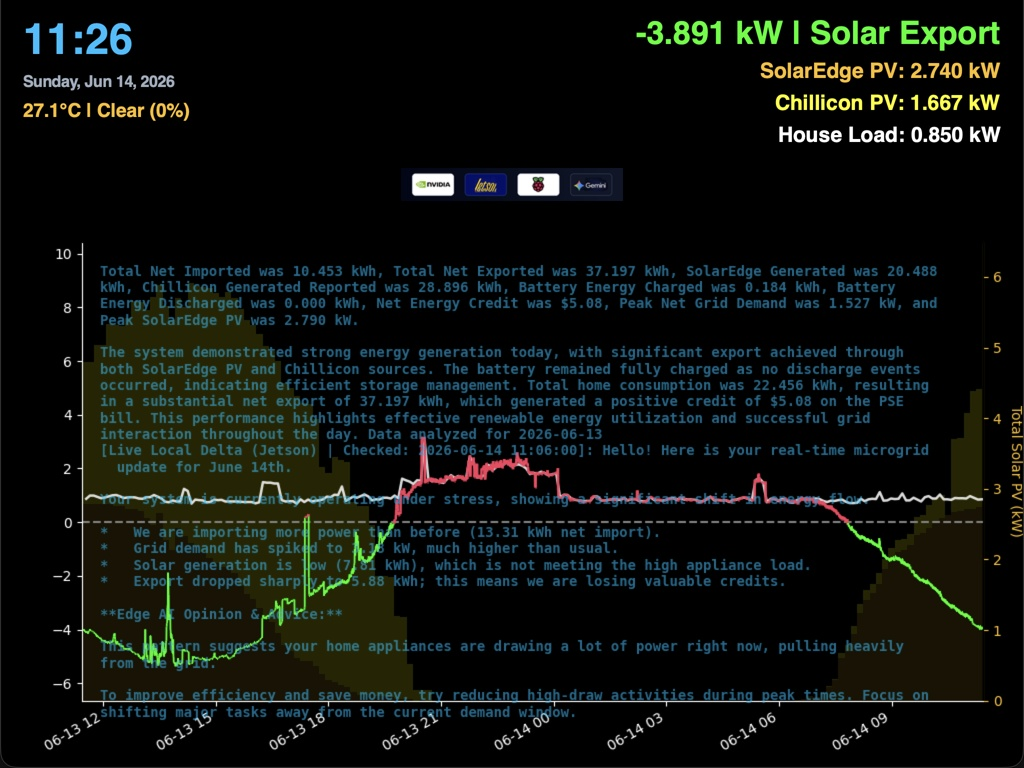
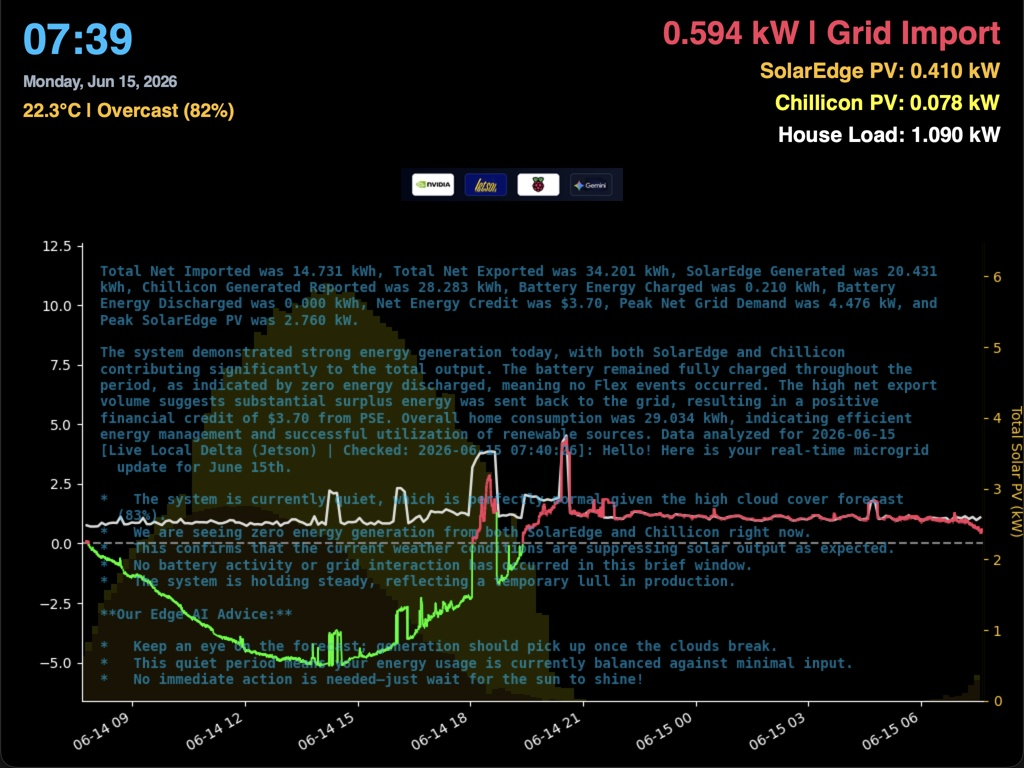
Patch stager baseline expiration check and update preview screenshots to June 15

diff --git a/dashboard.py b/dashboard.py
@@ -1359,6 +1359,7 @@ class GridDashboard(tk.Tk):
 
                 # 3. Request analysis context from Jetson edge server via secure gRPC
                 try:
+                    checked_time = datetime.datetime.now().strftime("%Y-%m-%d %H:%M:%S")
                     # Convert the cache baseline timestamp string into a datetime object.
                     # Standardizing to datetime prevents string representation mismatches and
                     # provides timezone-agnostic parameters to the Protobuf serializer.
@@ -1386,7 +1387,6 @@ class GridDashboard(tk.Tk):
                     dft_explanation = ""
                     metrics = {}
                     spec_data = {}
-                    checked_time = datetime.datetime.now().strftime("%Y-%m-%d %H:%M:%S")
                     
                     for chunk in stream:
                         # Process the initial statistical evaluation block. This contains computed
@@ -1462,7 +1462,7 @@ class GridDashboard(tk.Tk):
                     
                     # Save results to the persistent local JSON cache file to allow offline load recovery
                     # on subsequent application launches.
-                    if llm_response:
+                    if llm_response and len(llm_response) >= 80:
                         try:
                             cache_data = io.read_safe_json(self.summary_cache_file)
                             if not cache_data:
@@ -1484,9 +1484,14 @@ class GridDashboard(tk.Tk):
                         self.ui_queue.put(self.update_summary_display)
                         logging.info("Local Delta Loop: Successfully completed update cycle.")
                     else:
-                        logging.warning("Local Delta Loop: Received empty response from Jetson server.")
+                        msg = "empty response" if not llm_response else f"response too short ({len(llm_response)} chars)"
+                        logging.warning(f"Local Delta Loop: Received {msg} from Jetson server.")
+                        self.local_delta_text = f"[Live Local Delta (Jetson) | Checked: {checked_time}]: Stager error (Ollama Offline/OOM)"
+                        self.ui_queue.put(self.update_summary_display)
                 except Exception as grpc_err:
                     logging.error(f"Local Delta Loop: gRPC analysis query failed: {grpc_err}")
+                    self.local_delta_text = f"[Live Local Delta (Jetson) | Checked: {checked_time}]: Connection failed (Stager Offline)"
+                    self.ui_queue.put(self.update_summary_display)
             except Exception as loop_err:
                 logging.error(f"Local Delta Loop: Unexpected error: {loop_err}")
                 

diff --git a/stage_local_summary.py b/stage_local_summary.py
@@ -1263,9 +1263,36 @@ def calculate_analysis_metrics_and_prompts(
         ValueError: If baseline_ts_str cannot be parsed as a valid datetime.
     """
     baseline_dt = parse_timestamp(baseline_ts_str)
+    
+    # Check if baseline is expired (>24 hours) or empty/placeholder
+    is_expired = False
     if not baseline_dt:
-        raise ValueError(f"Could not parse baseline timestamp: {baseline_ts_str}")
-        
+        is_expired = True
+    else:
+        age = (datetime.datetime.now() - baseline_dt).total_seconds()
+        if age > 86400:  # 24 hours in seconds
+            is_expired = True
+
+    is_placeholder = (
+        not baseline_text
+        or baseline_text.strip() == ""
+        or "Awaiting AI Analysis..." in baseline_text
+    )
+
+    if is_expired or is_placeholder:
+        logging.info("Baseline is expired or placeholder. Generating fresh baseline locally...")
+        new_baseline_dt = datetime.datetime.now()
+        try:
+            baseline_text = generate_local_baseline(new_baseline_dt)
+            baseline_dt = new_baseline_dt
+            baseline_ts_str = new_baseline_dt.strftime("%Y-%m-%d %H:%M:%S")
+            logging.info(f"Fresh baseline generated successfully. Timestamp: {baseline_ts_str}")
+        except Exception as e:
+            logging.error(f"Failed to generate local baseline: {e}")
+            if not baseline_dt:
+                baseline_dt = datetime.datetime.now()
+                baseline_ts_str = baseline_dt.strftime("%Y-%m-%d %H:%M:%S")
+
     # 1. Fetch weather forecast (with sunrise/sunset)
     temp_max, cloud_cover, sunrise, sunset = fetch_weather()
     
@@ -1603,6 +1630,8 @@ Explanation:
         "se_load_min": flow_stats["load_min"],
         "se_load_max": flow_stats["load_max"],
         "se_load_avg": flow_stats["load_avg"],
+        "baseline_text": baseline_text,
+        "baseline_timestamp": baseline_ts_str,
     }
 
 
